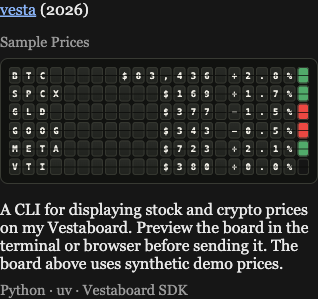
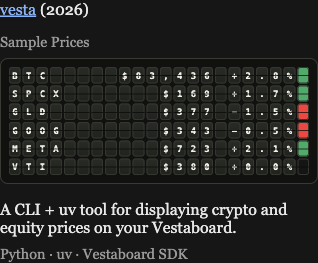
Update the Vesta project description and preview evidence

diff --git a/site/content/projects/vesta.md b/site/content/projects/vesta.md
@@ -12,6 +12,4 @@ order: 6
 media: vesta-demo
 ---
 
-A CLI for displaying stock and crypto prices on my Vestaboard. Preview the
-board in the terminal or browser before sending it. The board above uses
-synthetic demo prices.
+A CLI + uv tool for displaying crypto and equity prices on your Vestaboard.
